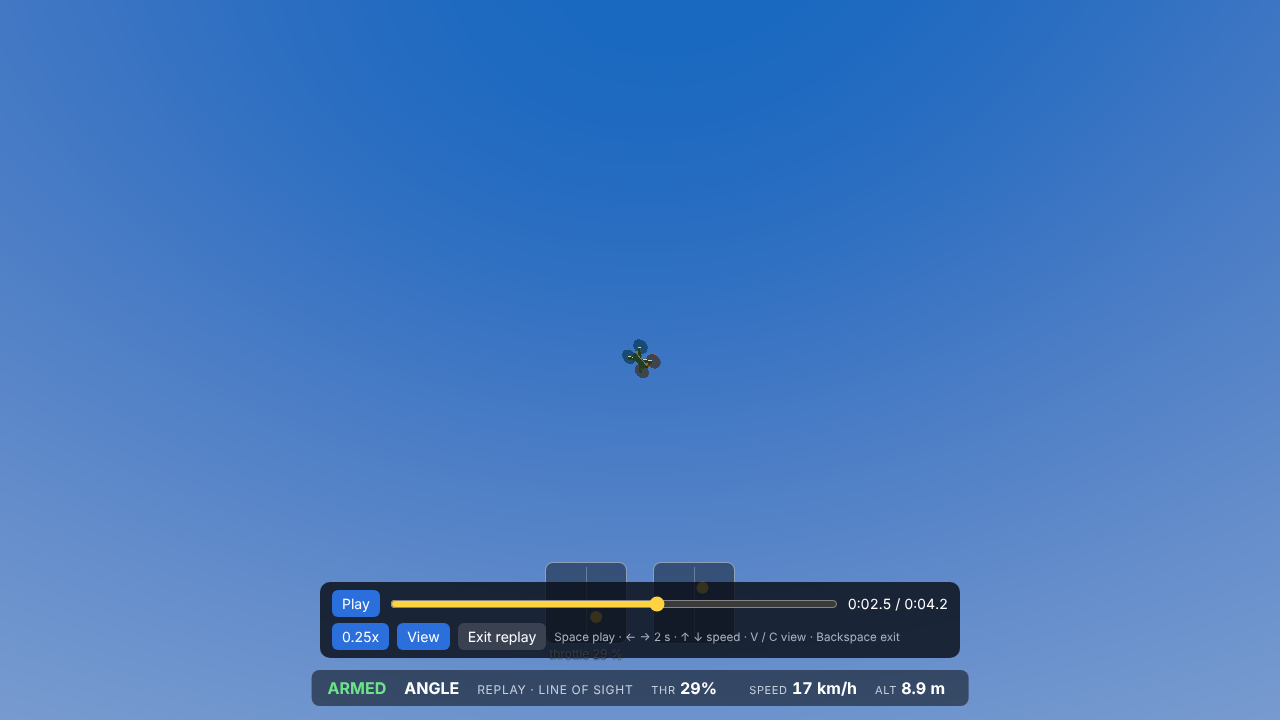
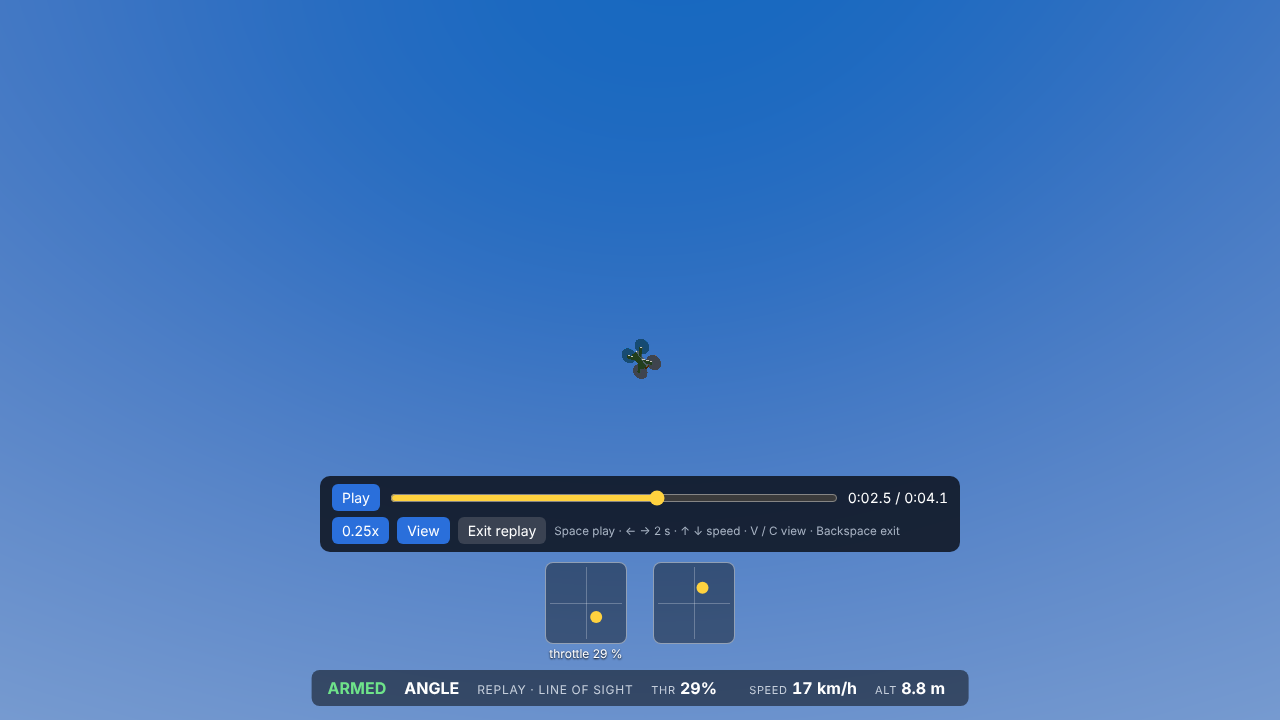
M10c: replay bar above the stick overlay, README Replay section, M8 checks updated for the new pause item

Changed region(s): [[0.25, 0.7944, 0.75, 0.9167], [0.25, 0.6417, 0.75, 0.7639], [0.5, 0.4889, 0.5312, 0.5194]]

diff --git a/src/style.css b/src/style.css
@@ -147,7 +147,7 @@ button.lesson .next { color: #ffd23f; font-weight: 600; }
 #pattern-list button b { font-size: 15px; }
 
 /* Replay bar (M10c) */
-#replay { position: fixed; left: 50%; bottom: 62px; transform: translateX(-50%); width: min(640px, calc(100vw - 32px)); box-sizing: border-box; padding: 8px 12px; background: rgba(10,14,22,.82); border-radius: 10px; color: #fff; font: 14px system-ui, sans-serif; z-index: 6; }
+#replay { position: fixed; left: 50%; bottom: 168px; transform: translateX(-50%); width: min(640px, calc(100vw - 32px)); box-sizing: border-box; padding: 8px 12px; background: rgba(10,14,22,.82); border-radius: 10px; color: #fff; font: 14px system-ui, sans-serif; z-index: 6; }
 #replay[hidden] { display: none; }
 #replay .row { display: flex; gap: 8px; align-items: center; flex-wrap: wrap; }
 #replay .row + .row { margin-top: 6px; }

diff --git a/README.md b/README.md
@@ -56,6 +56,16 @@ The page opens on a menu: **Learn**, **Gates**, **Free fly**, **Theory**, **Stic
 
 In the menu, next to Theory. Eight moves (hover, up and down, turn on the spot, fly forward, stop, nose toward you, banked turn, orbit), each with both sticks written out and flown live with the sticks on screen. Most are flown twice: once right, once with one part forgotten, so you see what goes wrong (snap the yaw and it jumps up; forget the throttle when you go forward and it sinks). In Try, the lesson's pattern shows as a small reminder; switch it off in Settings ("Pattern reminder"). Under the left stick the overlay shows the throttle value live: on a PlayStation stick a sideways push for yaw often moves the throttle too.
 
+## Replay
+
+After any run (a lesson, a gates lap, free flight, or a crash), open the pause menu (Options or Esc) and choose **Replay last run**. The run plays back with the stick overlay, so you see what your thumbs did at each moment.
+
+- Play / pause: ✕ or Space. Jump 2 s: D-pad ◀ ▶ or ← →. Speed 1x, 0.5x, 0.25x, 0.1x: D-pad ▲ ▼ or ↑ ↓, or the speed button. The slider scrubs to any moment.
+- View: △ or V switches FPV / line of sight, C chase; the View button cycles all three.
+- Exit: ◯, Backspace or Exit replay. The quad goes back on the pad.
+
+The last 3 minutes of a run are kept. Nothing is saved after you close the page.
+
 ## Helpers
 
 All off unless you ask for them, except the coaching line, which only appears after a failed lesson run.
